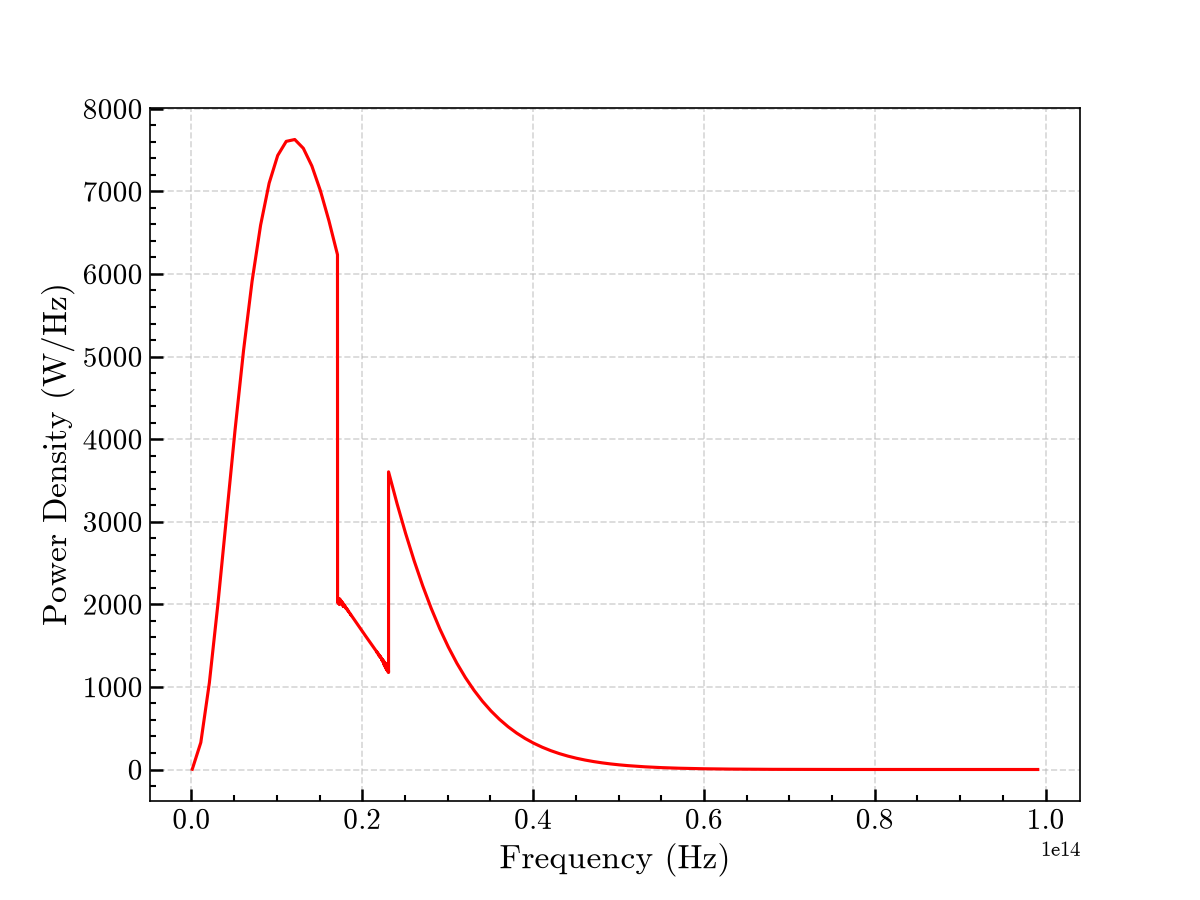
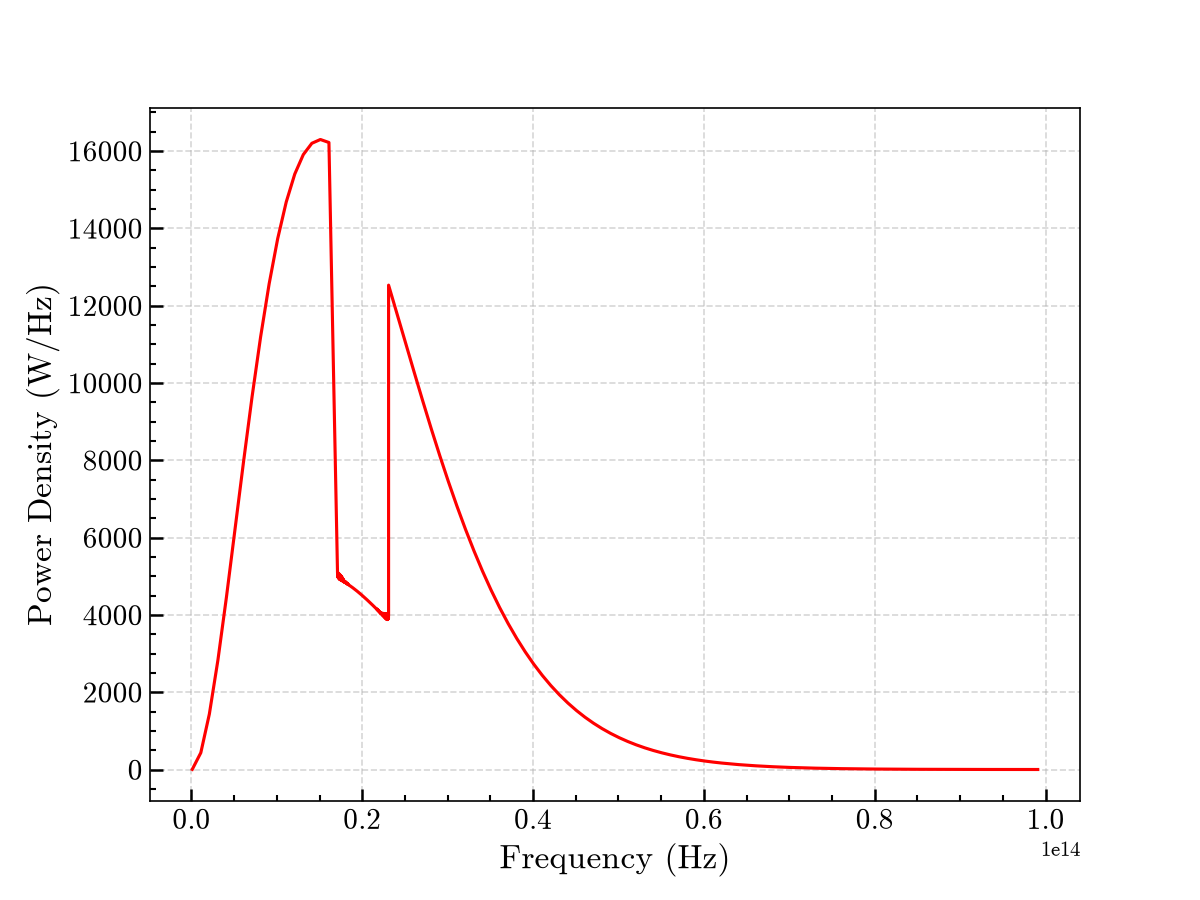
i thinkits done???

diff --git a/src/Atmospheric Energy Balance.py b/src/Atmospheric Energy Balance.py
@@ -48,7 +48,7 @@ HITRAN_data = pd.read_csv(
     header=0,
 )
 df_HITRAN = pd.DataFrame(HITRAN_data)
-df_HITRAN_filtered = df_HITRAN[(df_HITRAN.iloc[:, 1] > 10**(-24))] # filtering out data that wont have much of an effect to make code faster
+df_HITRAN_filtered = df_HITRAN[(df_HITRAN.iloc[:, 1] > 10**(-30))] # filtering out data that wont have much of an effect to make code faster
 wavenumber = np.array(df_HITRAN_filtered[df_HITRAN_filtered.columns[0]].values.tolist()) * 10**2 # converts to /m
 absorption_frequencies = wavenumber*(c) # converts wavenumber in /m to frequency in Hz
 spectral_line_intensity = np.array(df_HITRAN_filtered[df_HITRAN_filtered.columns[1]].values.tolist()) * (10**(-2)) #converting units from whatever cursed units HITRAN is using to SI units
@@ -64,9 +64,9 @@ for r in range(length_of_HITRAN_filtered):
         cross_section_matrix[r] += cross_section(i, wavenumber[r], spectral_line_intensity, wavenumber, pressure_broadening)
 
 #parameters for loop:
-tolerance = 10**15
-error = 10**18
-trial_temps = np.array([100, 260])
+tolerance = 10**14
+error = tolerance * 10
+trial_temps = np.array([250, 270])
 
 
 total_earth_power_trial = np.array([0, 0])
@@ -75,7 +75,7 @@ for k in range(len(trial_temps)):
     length_of_HITRAN_filtered = length_of_HITRAN_filtered
     spectral_radiance_array = np.empty(length_of_HITRAN_filtered)
     z_0 = (boltzmann * earth_temp) / (g * average_mass_air_molecule)
-    trop_temp = earth_temp - 0.000649 * z_0 * math.log((1 - 0.75), 10)
+    trop_temp = earth_temp + 0.000649 * z_0 * math.log((1 - 0.75), 10)
     for i in range(length_of_HITRAN_filtered):
         optical_depth = atm_number_density_CO2 * cross_section_matrix[i] * z_0
         exp_optical_depth = np.exp( -1 * optical_depth)
@@ -92,12 +92,12 @@ for k in range(len(trial_temps)):
     SI_1 = np.zeros(len(frequencies_section_1))
     for i in range(len(frequencies_section_1)):
         SI_1[i] = spectral_irradiance(average_earth_radius, max_altitude + average_earth_radius, frequencies_section_1[i], earth_temp)
-    earth_power_1 = simpson(4 * (np.pi**2) * ((average_earth_radius+max_altitude)**2) * SI_1, frequencies_section_1) # multiplied by solid angle and surface area of atmosphere top, then integrate for power
+    earth_power_1 = simpson(4 * (np.pi) * ((average_earth_radius+max_altitude)**2) * SI_1, frequencies_section_1)
     frequencies_section_3 = np.arange(absorption_frequencies[-1], max_freq, freq_step_size)
     SI_3 = np.zeros(len(frequencies_section_3))
     for i in range(len(frequencies_section_3)):
         SI_3[i] = spectral_irradiance(average_earth_radius, max_altitude + average_earth_radius, frequencies_section_3[i], earth_temp)
-    earth_power_3 = simpson(4 * (np.pi**2) * ((average_earth_radius+max_altitude)**2) * SI_3, frequencies_section_3) # multiplied by solid angle and surface area of atmosphere top, then integrate for power
+    earth_power_3 = simpson(4 * (np.pi) * ((average_earth_radius+max_altitude)**2) * SI_3, frequencies_section_3) 
     
     total_earth_power_trial[k] = earth_power_1 + earth_power_co2 + earth_power_3
 
@@ -111,7 +111,7 @@ while abs(error) > tolerance:
     length_of_HITRAN_filtered = length_of_HITRAN_filtered
     spectral_radiance_array = np.empty(length_of_HITRAN_filtered)
     z_0 = (boltzmann * earth_temp) / (g * average_mass_air_molecule)
-    trop_temp = earth_temp - 0.000649 * z_0 * math.log((1 - 0.75), 10)
+    trop_temp = earth_temp + 0.000649 * z_0 * math.log((1 - 0.75), 10)
     for i in range(length_of_HITRAN_filtered):
         optical_depth = atm_number_density_CO2 * cross_section_matrix[i] * z_0
         exp_optical_depth = np.exp( -1 * optical_depth)
@@ -128,12 +128,12 @@ while abs(error) > tolerance:
     SI_1 = np.zeros(len(frequencies_section_1))
     for i in range(len(frequencies_section_1)):
         SI_1[i] = spectral_irradiance(average_earth_radius, max_altitude + average_earth_radius, frequencies_section_1[i], earth_temp)
-    earth_power_1 = simpson(4 * (np.pi**2) * ((average_earth_radius+max_altitude)**2) * SI_1, frequencies_section_1) # multiplied by solid angle and surface area of atmosphere top, then integrate for power
+    earth_power_1 = simpson(4 * (np.pi) * ((average_earth_radius+max_altitude)**2) * SI_1, frequencies_section_1) 
     frequencies_section_3 = np.arange(absorption_frequencies[-1], max_freq, freq_step_size)
     SI_3 = np.zeros(len(frequencies_section_3))
     for i in range(len(frequencies_section_3)):
         SI_3[i] = spectral_irradiance(average_earth_radius, max_altitude + average_earth_radius, frequencies_section_3[i], earth_temp)
-    earth_power_3 = simpson(4 * (np.pi**2) * ((average_earth_radius+max_altitude)**2) * SI_3, frequencies_section_3) # multiplied by solid angle and surface area of atmosphere top, then integrate for power
+    earth_power_3 = simpson(4 * (np.pi) * ((average_earth_radius+max_altitude)**2) * SI_3, frequencies_section_3) 
 
     total_earth_power = earth_power_1 + earth_power_co2 + earth_power_3
     if total_earth_power < sun_power:
